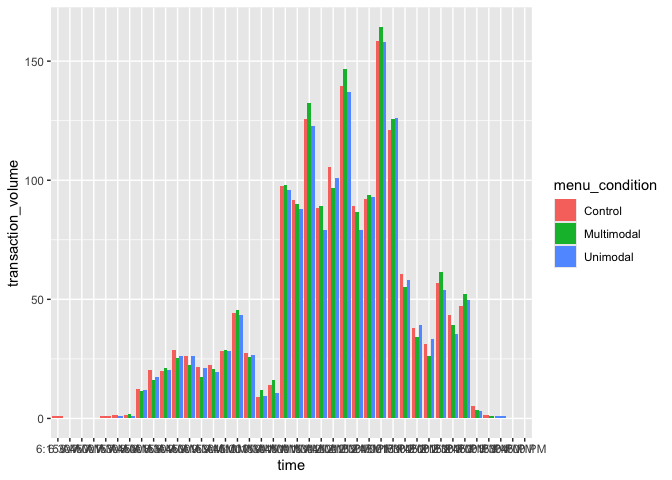
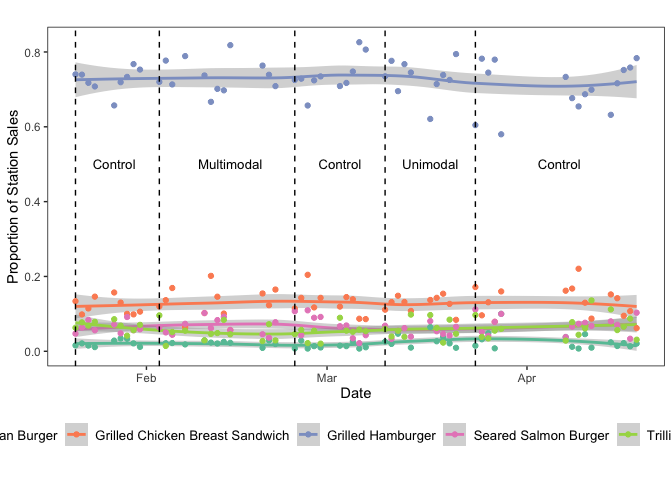
added phase-level summary stats for spring sales data at grill station

diff --git a/scripts/cleaning-and-analysis.md b/scripts/cleaning-and-analysis.md
@@ -2560,6 +2560,98 @@ spring_data %>%
     ## 14 Unimodal       Grill   Seared Salmon Burger                      67 0.0539
     ## 15 Unimodal       Grill   Trillium Grill Impossible Burger          74 0.0595
 
+period level
+
+``` r
+spring_data <- spring_data %>%
+  mutate(phase_interval=case_when(date=="21-Jan"~"1",
+                                  date=="22-Jan"~"1",
+                                  date=="23-Jan"~"1",
+                                  date=="24-Jan"~"1",
+                                  date=="27-Jan"~"1",
+                                  date=="28-Jan"~"1",
+                                  date=="29-Jan"~"1",
+                                  date=="30-Jan"~"1",
+                                  date=="31-Jan"~"1",
+                                  date=="3-Feb"~"2",
+                                  date=="4-Feb"~"2",
+                                  date=="5-Feb"~"2",
+                                  date=="6-Feb"~"2",
+                                  date=="7-Feb"~"2",
+                                  date=="10-Feb"~"2",
+                                  date=="11-Feb"~"2",
+                                  date=="12-Feb"~"2",
+                                  date=="13-Feb"~"2",
+                                  date=="14-Feb"~"2",
+                                  date=="19-Feb"~"2",
+                                  date=="20-Feb"~"2",
+                                  date=="21-Feb"~"2",
+                                  date=="24-Feb"~"3",
+                                  date=="25-Feb"~"3",
+                                  date=="26-Feb"~"3",
+                                  date=="27-Feb"~"3",
+                                  date=="28-Feb"~"3",
+                                  date=="3-Mar"~"3",
+                                  date=="4-Mar"~"3",
+                                  date=="5-Mar"~"3",
+                                  date=="6-Mar"~"3",
+                                  date=="7-Mar"~"3",
+                                  date=="10-Mar"~"4",
+                                  date=="11-Mar"~"4",
+                                  date=="12-Mar"~"4",
+                                  date=="13-Mar"~"4",
+                                  date=="14-Mar"~"4",
+                                  date=="17-Mar"~"4",
+                                  date=="18-Mar"~"4",
+                                  date=="19-Mar"~"4",
+                                  date=="20-Mar"~"4",
+                                  date=="21-Mar"~"4",
+                                  date=="24-Mar"~"5",
+                                  date=="25-Mar"~"5",
+                                  date=="26-Mar"~"5",
+                                  date=="27-Mar"~"5",
+                                  date=="28-Mar"~"5",
+                                  date=="7-Apr"~"5",
+                                  date=="8-Apr"~"5",
+                                  date=="9-Apr"~"5",
+                                  date=="10-Apr"~"5",
+                                  date=="11-Apr"~"5",
+                                  date=="14-Apr"~"5",
+                                  date=="15-Apr"~"5",
+                                  date=="16-Apr"~"5",
+                                  date=="17-Apr"~"5",
+                                  date=="18-Apr"~"5")) 
+```
+
+fall_data %\>% filter(station_type==“Treatment”) %\>%
+filter(item_cat==“Main”) %\>% group_by(menu_condition,station) %\>%
+summarise(tot_carbon_cost=sum(corr_carbon_cost),tot_water_cost=sum(corr_water_cost),tot_dollar_cost=sum(corr_dollar_cost),tot_sales=sum(count))
+%\>% mutate(mean_carbon_cost=tot_carbon_cost/tot_sales) %\>%
+mutate(mean_water_cost=tot_water_cost/tot_sales) %\>%
+mutate(mean_spend=tot_dollar_cost/tot_sales) %\>%
+filter(station==“Grill”) %\>%
+select(menu_condition,mean_carbon_cost,mean_spend)
+
+``` r
+spring_data %>%
+  filter(station=="Grill") %>%
+  filter(item_cat=="Main") %>%
+  group_by(phase_interval) %>%
+  summarise(tot_carbon_cost=sum(corr_carbon_cost),tot_dollar_cost=sum(corr_dollar_cost),tot_sales=sum(count)) %>%
+  mutate(mean_carbon_cost=tot_carbon_cost/tot_sales) %>%
+  mutate(mean_spend=tot_dollar_cost/tot_sales) %>%
+  select(phase_interval,mean_carbon_cost,mean_spend)
+```
+
+    ## # A tibble: 5 × 3
+    ##   phase_interval mean_carbon_cost mean_spend
+    ##   <chr>                     <dbl>      <dbl>
+    ## 1 1                          2.90       8.99
+    ## 2 2                          2.93       8.96
+    ## 3 3                          2.94       8.96
+    ## 4 4                          2.92       8.98
+    ## 5 5                          2.84       8.98
+
 daily
 
 ``` r
@@ -2738,7 +2830,7 @@ grill_prop_low_s2
 
     ## `geom_smooth()` using method = 'loess' and formula = 'y ~ x'
 
-![](cleaning-and-analysis_files/figure-gfm/unnamed-chunk-67-1.png)<!-- -->
+![](cleaning-and-analysis_files/figure-gfm/unnamed-chunk-69-1.png)<!-- -->
 
 ``` r
 grill_prop_high_s2 <- daily_prop_spring_data %>%
@@ -2767,7 +2859,7 @@ grill_prop_low_s2
 
     ## `geom_smooth()` using method = 'loess' and formula = 'y ~ x'
 
-![](cleaning-and-analysis_files/figure-gfm/unnamed-chunk-68-1.png)<!-- -->
+![](cleaning-and-analysis_files/figure-gfm/unnamed-chunk-70-1.png)<!-- -->
 
 ``` r
 grill_prop_middle_s2 <- daily_prop_spring_data %>%
@@ -2796,7 +2888,7 @@ grill_prop_low_s2
 
     ## `geom_smooth()` using method = 'loess' and formula = 'y ~ x'
 
-![](cleaning-and-analysis_files/figure-gfm/unnamed-chunk-69-1.png)<!-- -->
+![](cleaning-and-analysis_files/figure-gfm/unnamed-chunk-71-1.png)<!-- -->
 
 ``` r
 daily_prop_spring_data %>%
@@ -2817,7 +2909,7 @@ daily_prop_spring_data %>%
 
     ## `geom_smooth()` using method = 'loess' and formula = 'y ~ x'
 
-![](cleaning-and-analysis_files/figure-gfm/unnamed-chunk-70-1.png)<!-- -->
+![](cleaning-and-analysis_files/figure-gfm/unnamed-chunk-72-1.png)<!-- -->
 
 We’ll need to do checks to see whether there are differences in the
 purchase of different item categories across menu conditions, whether
@@ -3260,7 +3352,7 @@ foot_traffic_data %>%
     ## `summarise()` has grouped output by 'menu_condition'. You can override using
     ## the `.groups` argument.
 
-![](cleaning-and-analysis_files/figure-gfm/unnamed-chunk-89-1.png)<!-- -->
+![](cleaning-and-analysis_files/figure-gfm/unnamed-chunk-91-1.png)<!-- -->
 
 sales_data %\>% mutate(item_cat=case_when(item==“Quesadilla Deluxe
 Trillium”~“Main”, item==“Grilled Hamburger”~“Main”, item==“Fried Chicken
